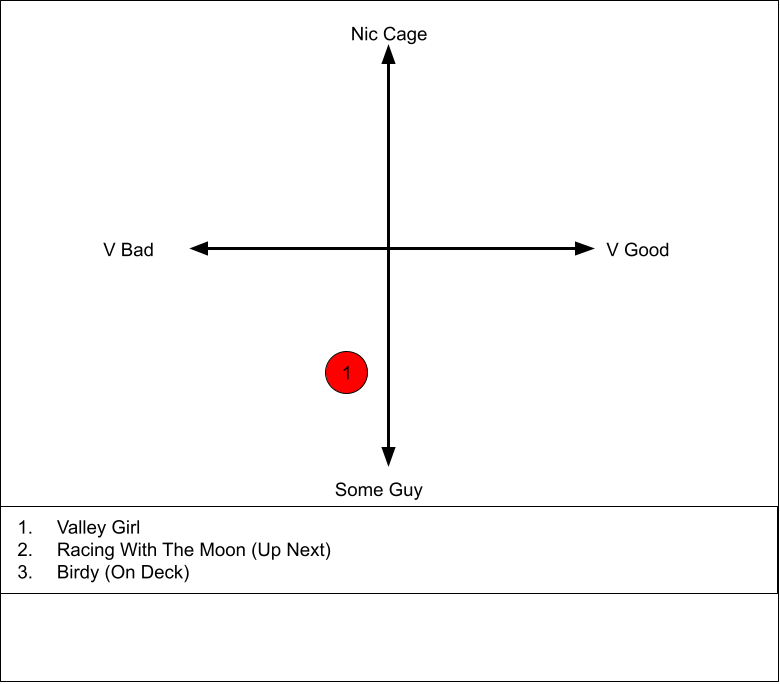
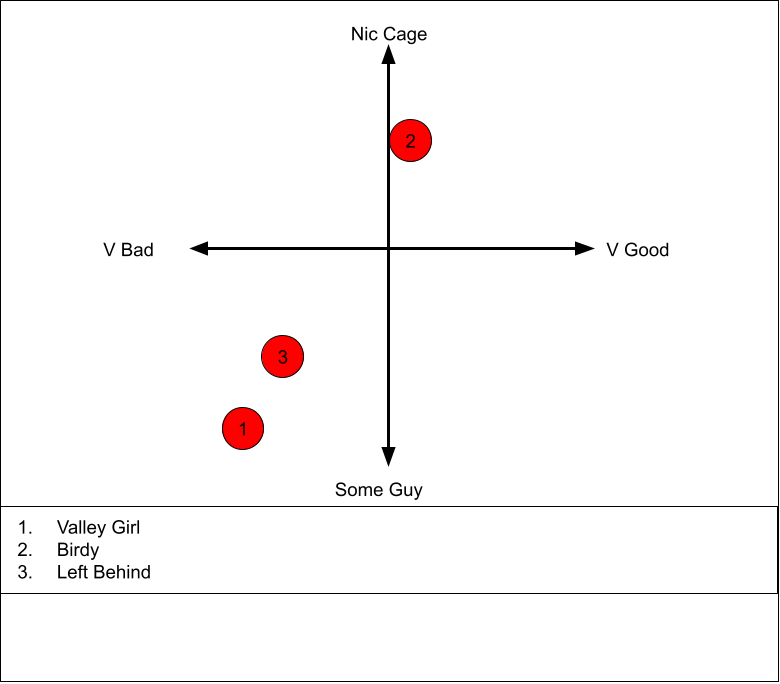
fix index

diff --git a/static/index.html b/static/index.html
@@ -33,6 +33,8 @@
       
       <section id="home"> <!-- HOME -->
       <ul>
+        <li><a href="#post4"> Un-caged #3, Left Behind </a> </li>
+        <li><a href="#post3"> Un-caged #2, Birdy </a> </li>
         <li><a href="#post2"> Un-caged #1, Valley Girl </a> </li>
         <li><a href="#post1"> Zip Up These Apps </a> </li>
       </ul>
@@ -113,10 +115,14 @@
             He's a man, he's a bird, he's a plane!...No he's a bird. <a href="https://www.imdb.com/title/tt0086969/?ref_=nm_flmg_act_104"> Birdy</a> has serious "how do you do, fellow kids" energy, with a mid-20s Nic Cage playing a troubled high school student for much of the film, combined with a kooky sense of humor lend the film a surreal but not unpleasant air. These elements really do come home to roost in the last 15 minutes of the film and you can't help but egg the action on.
           </p>
         </article>
+        <figure>
+          <img src="static/nic_cage_compass.png" alt="2 Dimenstional Representation of Nic Cage movie ratings">
+          <figcaption><em>* Compass points will likely shift as more data is collected.</em></figcaption>
+        </figure>
       </section>
 
 
-      <section id="post3">
+      <section id="post4">
         <h2>Nicolas Un-caged #3, "Left Behind" <time datetime="2022-03-27">March 27th, 2022</time></h2>
         
         <article>
@@ -131,6 +137,10 @@
             But like all parables, there is a moral to this story: you don't have to be good to be entertaining.
           </p>
         </article>
+        <figure>
+          <img src="static/nic_cage_compass.png" alt="2 Dimenstional Representation of Nic Cage movie ratings">
+          <figcaption><em>* Compass points will likely shift as more data is collected.</em></figcaption>
+        </figure>
       </section>
   </body>
 </html>
